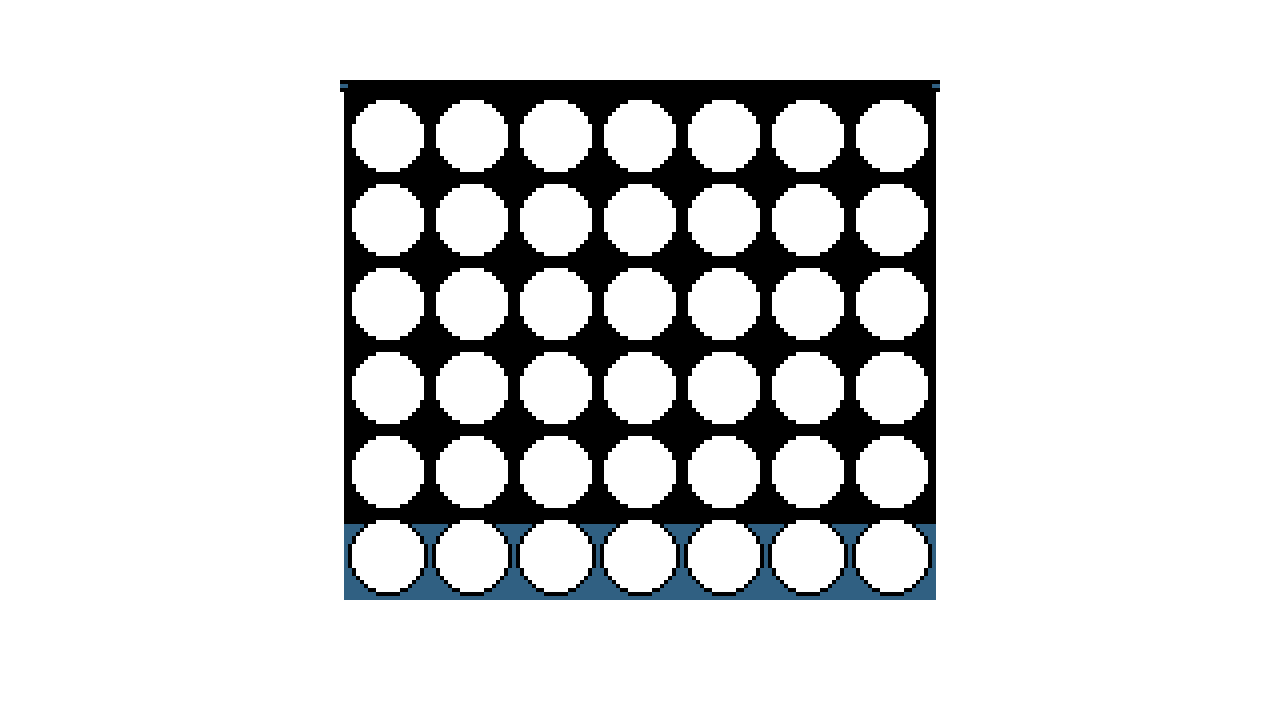
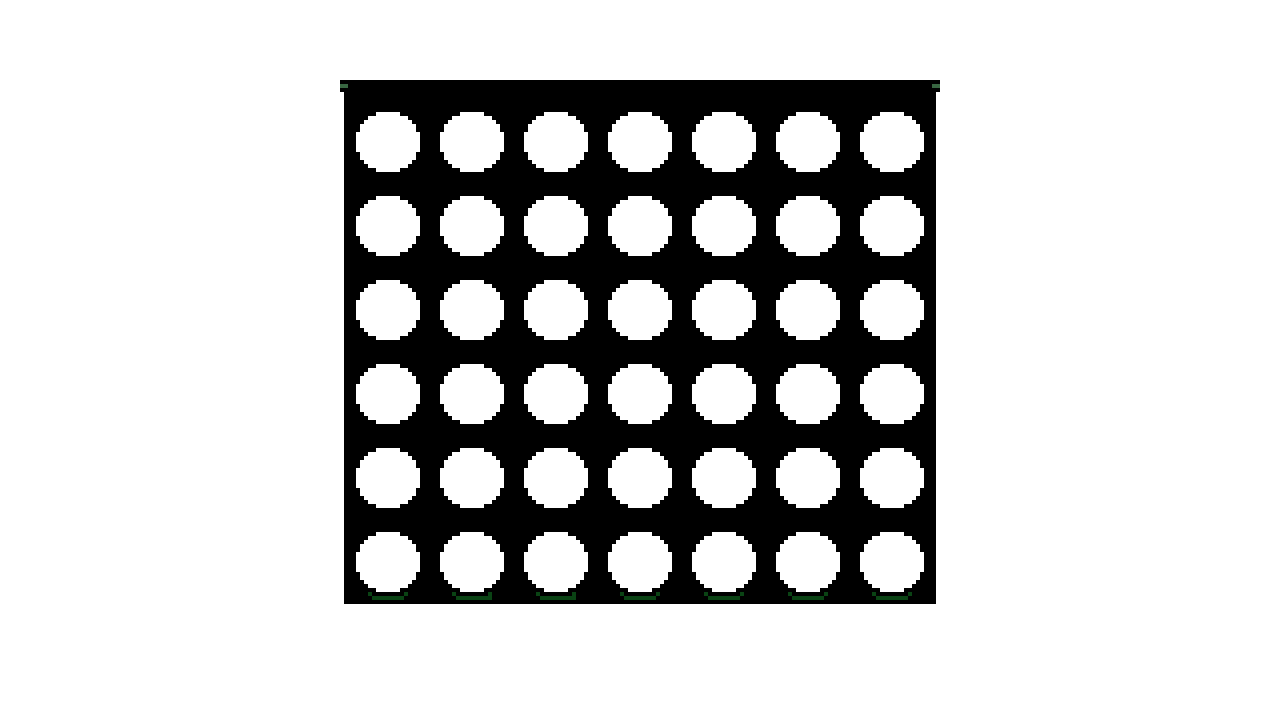
merge resolution (frontend)

diff --git a/connect-4-frontend/src/pages/Game.tsx b/connect-4-frontend/src/pages/Game.tsx
@@ -1,6 +1,5 @@
 import { Link } from "react-router-dom";
 import { useEffect, useRef, useState, useCallback } from "react";
-import ButtonMenuContainer from "../Components/ButtonMenuContainer";
 import { CANVAS_WIDTH, CANVAS_HEIGHT, GAME_ROWS, GAME_COLUMNS } from "../lib/config.js";
 import { makeMove } from "../lib/gameLogic";
 import GameCanvas from "../lib/canvasLogic.js";
@@ -66,34 +65,20 @@ function Game() {
 
     return (
         <>
-            <ButtonMenuContainer
-            buttons = {
-                <>
-                    {/* temporary test buttons */}
-                    {[0, 1, 2, 3, 4, 5, 6].map(col => (
-                        <button
-                            key={col}
-                            onClick={() => handleMakeMove(col)}
-                        >
-                            Column {col}
-                        </button>
-                    ))}
-
-                    <Link to="/">
-                        <button>
-                            Home
-                        </button>
-                    </Link>
-                </>
-            }
-            display = {
-                <>
-                    <canvas ref={canvasRef} id='gameCanvas'>
-                        Your browser does not support canvas. Sorry! :(
-                    </canvas>
-                </>
-            }
-            />
+            {/* column buttons */}
+            <div className="absolute top-[4%] left-[27.3%] w-[45.85%] h-[80%] flex">
+                {Array.from({ length: GAME_COLUMNS }, (_, col) => (
+                    <button
+                        key={col}
+                        onClick={() => handleMakeMove(col)}
+                        className="pointer-events-auto z-50 flex-1 h-full cursor-pointer"
+                    />
+                ))}
+            </div>
+            
+            <canvas ref={canvasRef} className='gameCanvas absolute top-0 right-0 bottom-0 left-0 w-full h-full z-0'>
+                Your browser does not support canvas. Sorry! :(
+            </canvas>
         </>
     );
 }

diff --git a/connect-4-frontend/src/pages/Home.tsx b/connect-4-frontend/src/pages/Home.tsx
@@ -1,34 +1,26 @@
 import { Link } from 'react-router-dom';
-import ButtonMenuContainer from '../Components/ButtonMenuContainer';
 
 function Home() {
     return (
         <>
-            <ButtonMenuContainer
-            buttons = {
-                <>
-                    <Link to="/settings">
-                        <button>
-                            Settings
-                        </button>
-                    </Link>
-
-                    <Link to="/game">
-                        <button>
-                            Game
-                        </button>
-                    </Link>
-                
-                    <Link to="/sigma">
-                        <button>
-                            Invalid Path
-                        </button>
-                    </Link>
-                </>
-            }
-            display
-            />       
-        </>
+            <Link to="/settings">
+                <button>
+                    Settings
+                </button>
+            </Link>
+            
+            <Link to="/game">
+                <button>
+                    Game
+                </button>
+            </Link>
+        
+            <Link to="/sigma">
+                <button>
+                    Invalid Path
+                </button>
+            </Link>
+        </>       
     );
 }
 

diff --git a/connect-4-frontend/src/Components/Header.tsx b/connect-4-frontend/src/Components/Header.tsx
@@ -5,12 +5,16 @@ function Header() {
         <header>
             <div id='websiteLogo'>
             </div>
-            <nav>
-                <Link to="/">
+            <nav className='flex items-center'>
+                <Link to="/" className='ml-3'>
                     Home
                 </Link>
-                <a href='#'>cooler</a>
-                <a href='#'>coolest</a>
+                <Link to="/settings" className='ml-3'>
+                    Settings
+                </Link>
+                <a href='#' className='ml-3'>
+                    This Page
+                </a>
             </nav>
         </header>
     );

diff --git a/connect-4-frontend/src/pages/Settings.tsx b/connect-4-frontend/src/pages/Settings.tsx
@@ -1,22 +1,12 @@
 import { Link } from 'react-router-dom';
-import ButtonMenuContainer from '../Components/ButtonMenuContainer';
 
 function Settings() {
     return (
-        <>
-            <ButtonMenuContainer
-            buttons = {
-                <>
-                    <Link to="/">
-                        <button>
-                            Home
-                        </button>
-                    </Link>
-                </>
-            }
-            display
-            />
-        </>
+        <Link to="/">
+            <button>
+                Home
+            </button>
+        </Link>
     );
 }
 

diff --git a/connect-4-frontend/src/Components/Menu.tsx b/connect-4-frontend/src/Components/Menu.tsx
@@ -1,0 +1,16 @@
+import type { ReactNode } from "react";
+import gameBackground from "../assets/game_background.png";
+
+const Menu: React.FC<{
+    children: ReactNode;
+}> = ({ children }) => {
+    return (
+        <div className="my-0 mx-[10vw] w-[80vw] h-[45vw] relative bg-cover bg-center bg-no-repeat border-solid border-3 border-black"
+            style={{ backgroundImage: `url(${gameBackground})` }}
+        >
+            {children}
+        </div>
+    );
+}
+
+export default Menu;

diff --git a/connect-4-frontend/src/pages/BasePage.tsx b/connect-4-frontend/src/pages/BasePage.tsx
@@ -1,0 +1,22 @@
+import { Outlet } from 'react-router-dom';
+
+import Header from '../Components/Header';
+import Footer from '../Components/Footer';
+import Menu from '../Components/Menu';
+
+function BasePage() {
+    return (
+        <>
+            <Header />
+
+            <Menu>
+                {/* Renders content of pages on child routes */}
+                <Outlet />
+            </Menu>
+
+            <Footer />
+        </>
+    );
+}
+
+export default BasePage;

diff --git a/connect-4-frontend/vite.config.ts b/connect-4-frontend/vite.config.ts
@@ -1,4 +1,5 @@
 import { defineConfig } from 'vite'
+import tailwindcss from '@tailwindcss/vite'
 import react, { reactCompilerPreset } from '@vitejs/plugin-react'
 import babel from '@rolldown/plugin-babel'
 
@@ -6,6 +7,7 @@ import babel from '@rolldown/plugin-babel'
 export default defineConfig({
   plugins: [
     react(),
-    babel({ presets: [reactCompilerPreset()] })
+    babel({ presets: [reactCompilerPreset()] }),
+    tailwindcss()
   ],
 })

diff --git a/connect-4-frontend/src/Components/Footer.tsx b/connect-4-frontend/src/Components/Footer.tsx
@@ -1,0 +1,9 @@
+function Footer() {
+    return (
+        <footer>
+            MAW 2026
+        </footer>
+    );
+}
+
+export default Footer;
